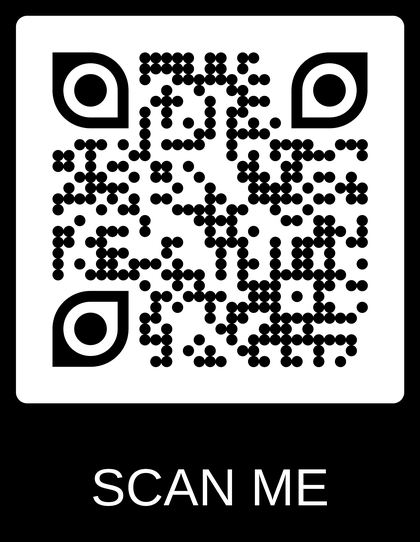
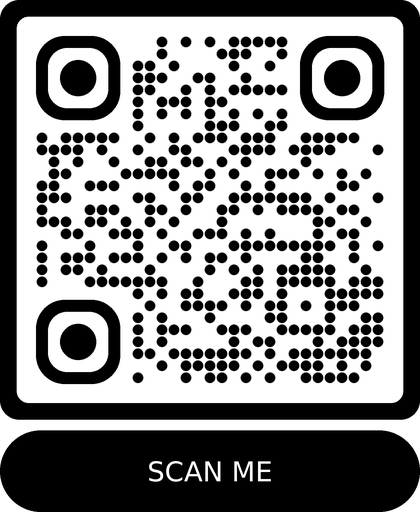
QR del showreel: códigos estáticos a Instagram y LinkedIn (los anteriores caducaron)
Claude-Session: https://claude.ai/code/session_01NEzbccjhWNBMk8itoPmEQH

diff --git a/index.html b/index.html
@@ -159,8 +159,8 @@
             <div class="reel__links reveal">
                 <p class="eyebrow">(Escanéame)</p>
                 <div class="reel__qrs">
-                    <a href="https://qr.codes/yihb40" target="_blank" rel="noopener" data-cursor="ABRIR"><img src="Img/qr-1.png" alt="Código QR 1"></a>
-                    <a href="https://qr.codes/BvrEJR" target="_blank" rel="noopener" data-cursor="ABRIR"><img src="Img/qr-2.png" alt="Código QR 2"></a>
+                    <a href="https://www.instagram.com/_puchefer/" target="_blank" rel="noopener" data-cursor="ABRIR"><img src="Img/qr-1.png" alt="QR a Instagram @_puchefer"><span>Instagram</span></a>
+                    <a href="https://www.linkedin.com/in/fernandopuche/" target="_blank" rel="noopener" data-cursor="ABRIR"><img src="Img/qr-2.png" alt="QR a LinkedIn"><span>LinkedIn</span></a>
                 </div>
                 <a href="#contacto" class="btn-pill reel__cta" data-cursor="HOLA">Trabaja conmigo</a>
             </div>

diff --git a/css/estilos.css b/css/estilos.css
@@ -1161,3 +1161,5 @@ video.wcard__img { background: var(--ink-2); }
 @media (max-width: 760px) {
     .hero::after { height: 38%; }
 }
+
+.reel__qrs a span { display: block; text-align: center; margin-top: .4rem; font-size: .8rem; font-weight: 800; text-transform: uppercase; letter-spacing: .06em; }
